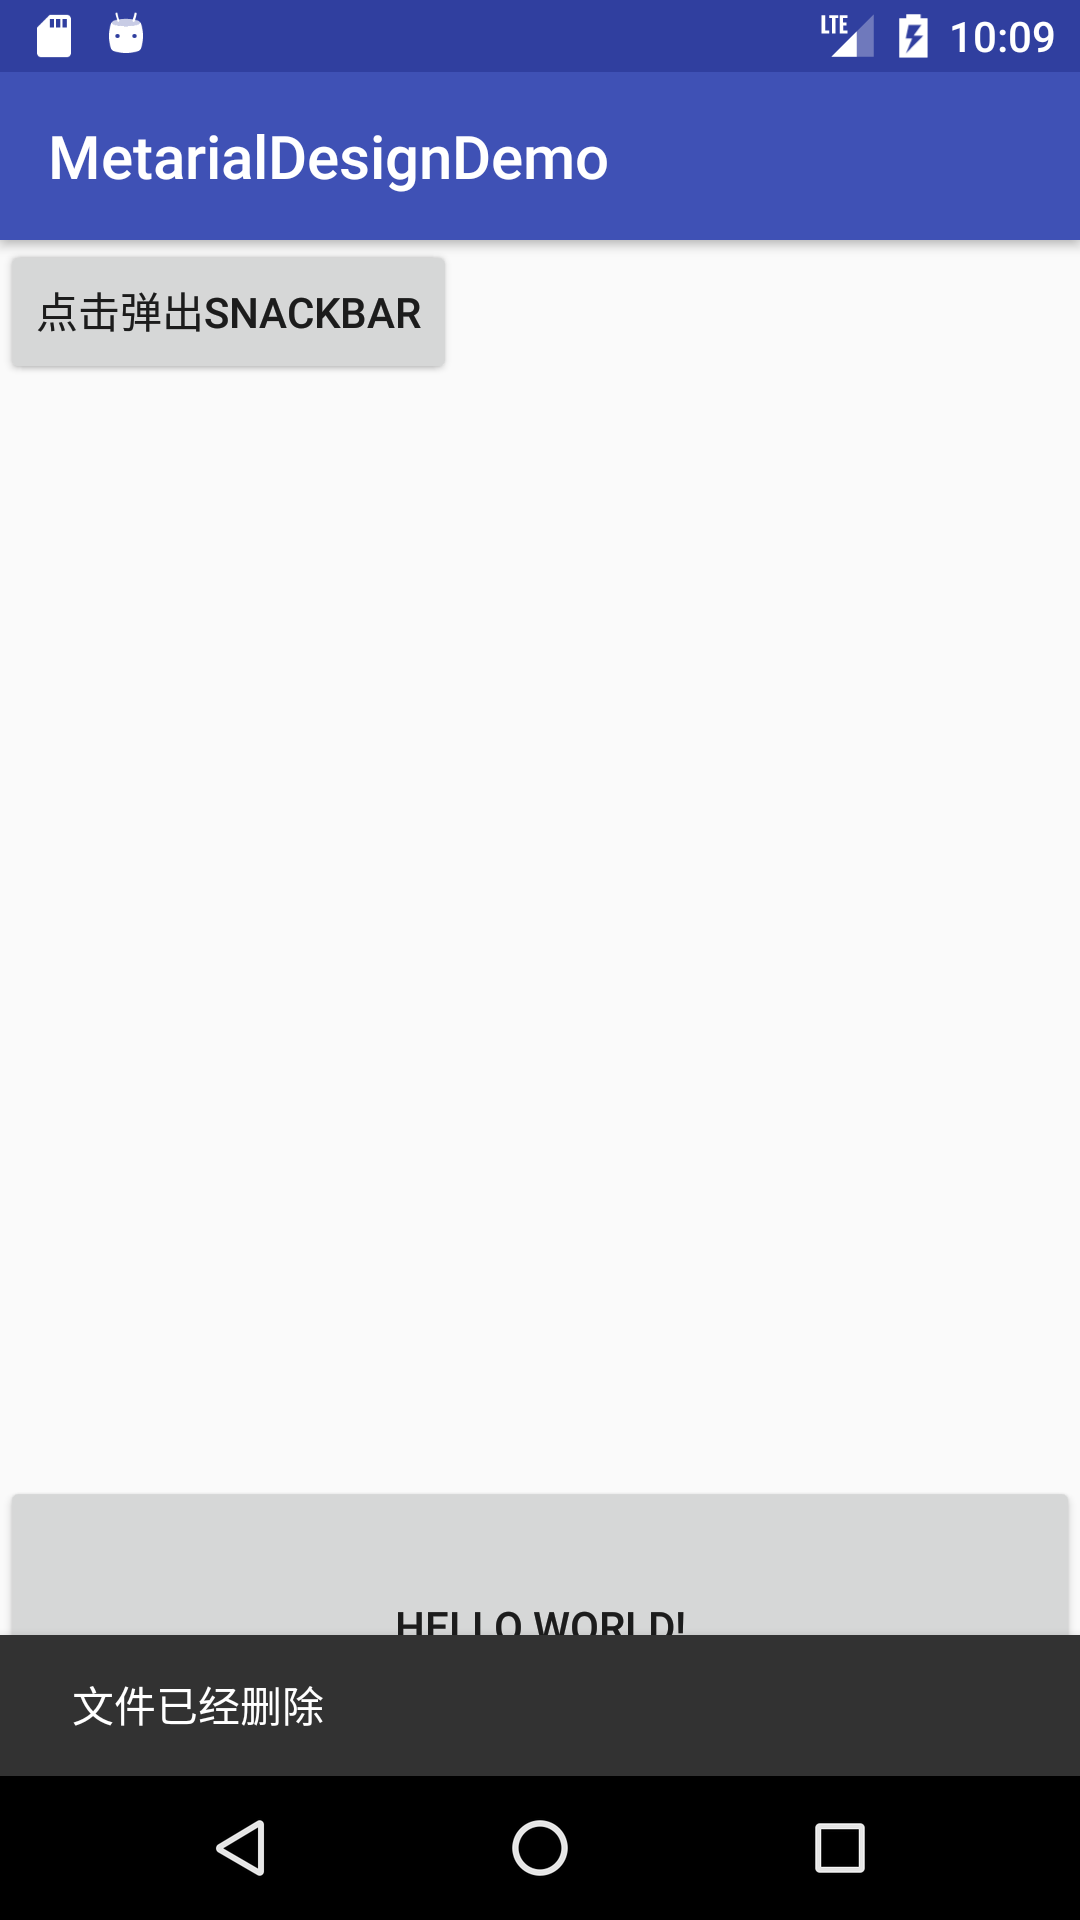
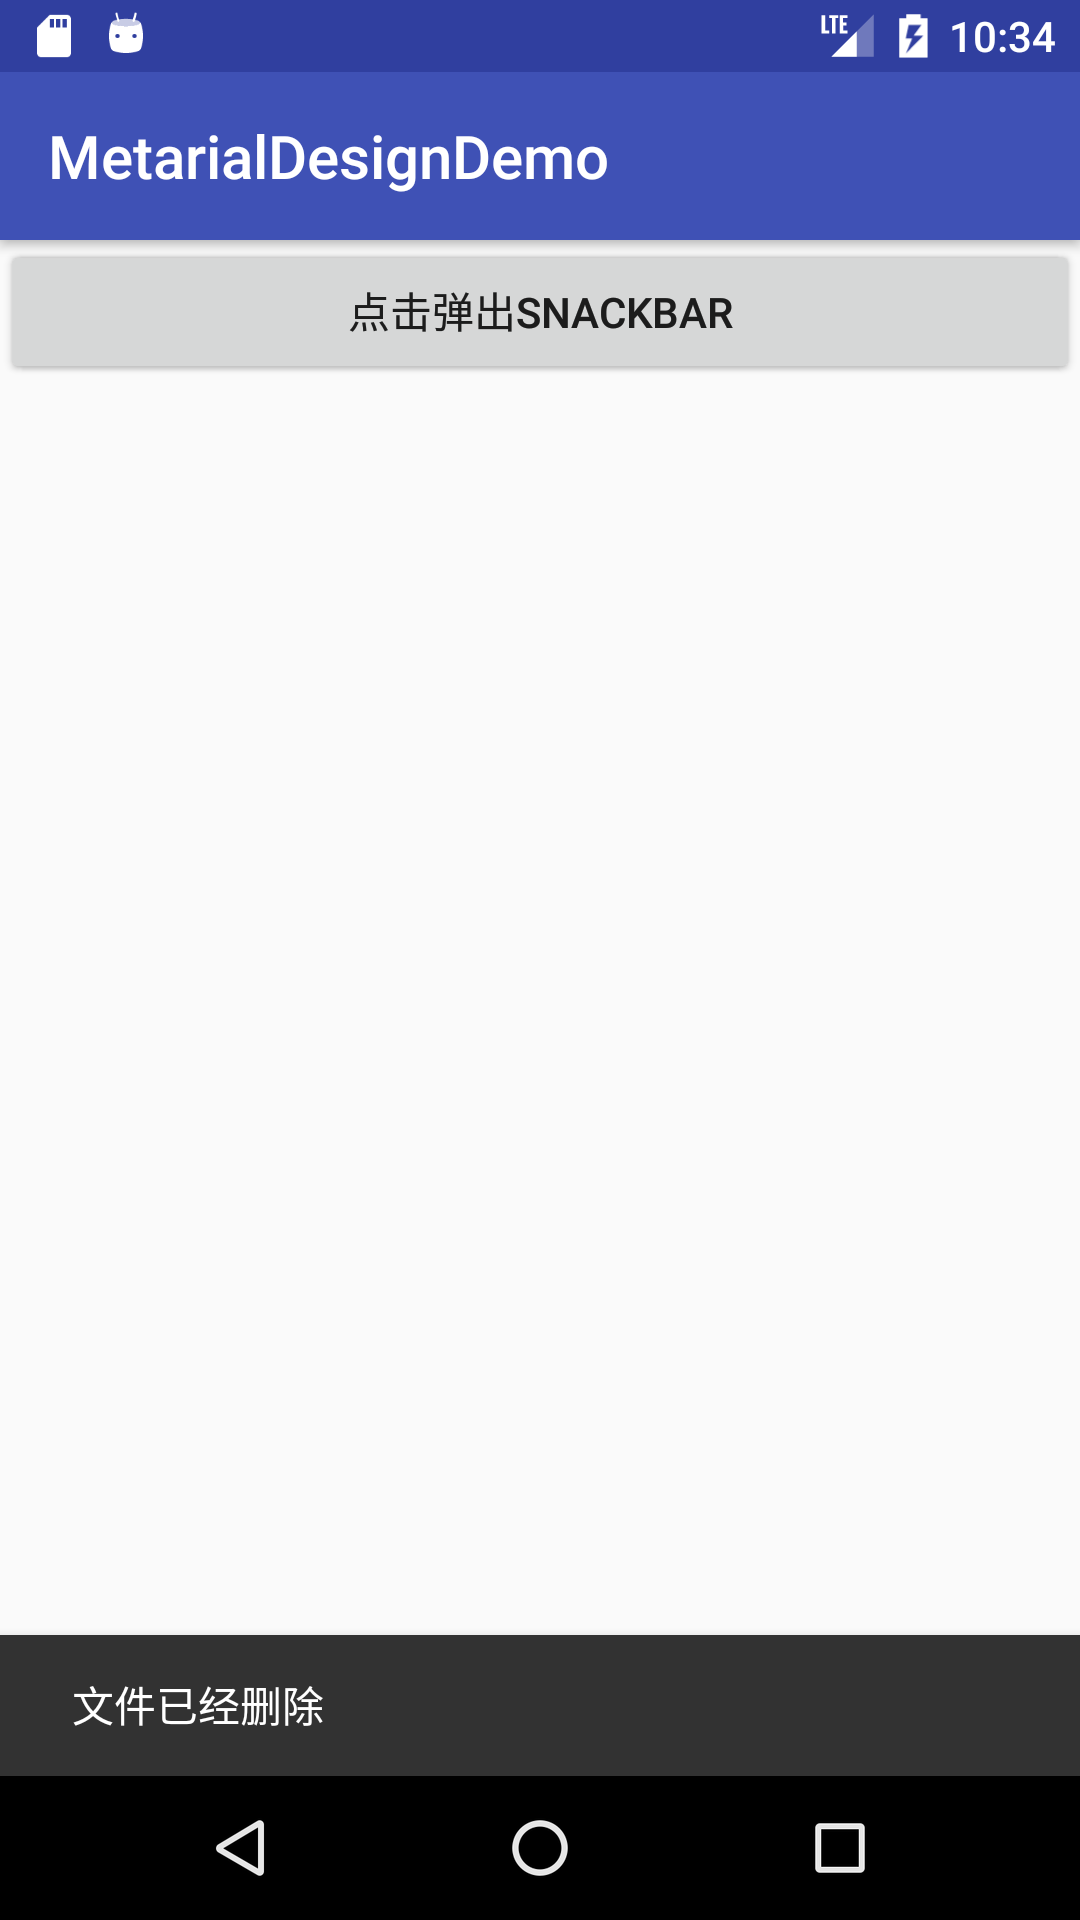
Site updated: 2017-04-03 22:46:17

Changed region(s): [[0.0, 0.7812, 1.0, 0.875], [0.0306, 0.125, 1.0, 0.2188], [0.9472, 0.0, 0.9778, 0.0312]]

diff --git a/2017/04/03/Material-Design之Snackbar/index.html b/2017/04/03/Material-Design之Snackbar/index.html
@@ -98,7 +98,8 @@
 下面我们来看一下Snackbar是如何使用的
 1、创建一个新的Android项目的时候，是不会主动添加design库的，这样就无法使用Snackbar。所以我们需要在gradle文件中添加一个android的design库的">
 <meta property="og:image" content="https://hurui1990.github.io/hurui.github.io/uploads/snackbar/snackbar1.png">
-<meta property="og:updated_time" content="2017-04-03T14:12:39.000Z">
+<meta property="og:image" content="https://hurui1990.github.io/hurui.github.io/uploads/snackbar/snackbar2.png">
+<meta property="og:updated_time" content="2017-04-03T14:44:34.000Z">
 <meta name="twitter:card" content="summary">
 <meta name="twitter:title" content="Material Design之Snackbar">
 <meta name="twitter:description" content="在Metarial Design设计语言发布之前，对于用户提示，我们都是用Toast实现的。Snackbar可以完全代替Toast的功能，并且在此基础之上还添加了动作的处理
@@ -358,8 +359,10 @@
 <figure class="highlight java"><table><tr><td class="gutter"><pre><div class="line">1</div></pre></td><td class="code"><pre><div class="line">compile <span class="string">'com.android.support:design:26.0.0-alpha1'</span></div></pre></td></tr></table></figure>
 <p>这里需要注意的是版本号的问题，因为现在新创建的项目的<strong><em>Activity</em></strong>都是继承的<strong><em>AppCompatActivity</em></strong> 所以这里的版本号需要与下面的版本号一致，<br><figure class="highlight java"><table><tr><td class="gutter"><pre><div class="line">1</div></pre></td><td class="code"><pre><div class="line">compile <span class="string">'com.android.support:appcompat-v7:26.0.0-alpha1'</span></div></pre></td></tr></table></figure></p>
 <p>否则在编译的时候会报错。</p>
-<p>接下来我们就可以在<strong><em>Activity</em></strong>中欢快的调用Snackbar了<br><figure class="highlight java"><table><tr><td class="gutter"><pre><div class="line">1</div><div class="line">2</div><div class="line">3</div><div class="line">4</div><div class="line">5</div><div class="line">6</div><div class="line">7</div><div class="line">8</div><div class="line">9</div></pre></td><td class="code"><pre><div class="line">mButton = (Button) findViewById(R.id.button);</div><div class="line">   mButtonClick = (Button) findViewById(R.id.button_click);</div><div class="line"></div><div class="line">   mButtonClick.setOnClickListener(<span class="keyword">new</span> View.OnClickListener() &#123;</div><div class="line">       <span class="meta">@Override</span></div><div class="line">       <span class="function"><span class="keyword">public</span> <span class="keyword">void</span> <span class="title">onClick</span><span class="params">(View view)</span> </span>&#123;</div><div class="line">           Snackbar.make(mButton,<span class="string">"文件已经删除"</span>,Snackbar.LENGTH_LONG).show();</div><div class="line">       &#125;</div><div class="line">   &#125;);</div></pre></td></tr></table></figure></p>
+<p>接下来我们就可以在<strong><em>Activity</em></strong>中欢快的调用Snackbar了,调用的时候需要用一个控件容器去容纳Snackbar，Google官方推荐的是CoordinatorLayout,因为使用这个控件作为容器的时候，用户还可以通过向右滑动来移除Snackbar。<br><figure class="highlight java"><table><tr><td class="gutter"><pre><div class="line">1</div><div class="line">2</div><div class="line">3</div><div class="line">4</div><div class="line">5</div><div class="line">6</div><div class="line">7</div><div class="line">8</div><div class="line">9</div></pre></td><td class="code"><pre><div class="line">mButtonClick = (Button) findViewById(R.id.button_click);</div><div class="line">mCoordinator = (CoordinatorLayout) findViewById(R.id.coordinator);</div><div class="line"></div><div class="line">mButtonClick.setOnClickListener(<span class="keyword">new</span> View.OnClickListener() &#123;</div><div class="line">    <span class="meta">@Override</span></div><div class="line">    <span class="function"><span class="keyword">public</span> <span class="keyword">void</span> <span class="title">onClick</span><span class="params">(View view)</span> </span>&#123;</div><div class="line">        Snackbar.make(mCoordinator,<span class="string">"文件已经删除"</span>,Snackbar.LENGTH_LONG).show();</div><div class="line">    &#125;</div><div class="line">&#125;);</div></pre></td></tr></table></figure></p>
 <p><img src="https://hurui1990.github.io/hurui.github.io/uploads/snackbar/snackbar1.png" alt="cmd-markdown-logo"></p>
+<p>这个是Snackbar最基本的用法，我们还可以对Snackbar添加一个Action，我们可以通过<figure class="highlight java"><figcaption><span>setAction ```这个方法来设置</span></figcaption><table><tr><td class="gutter"><pre><div class="line">1</div><div class="line">2</div><div class="line">3</div><div class="line">4</div><div class="line">5</div><div class="line">6</div><div class="line">7</div><div class="line">8</div><div class="line">9</div><div class="line">10</div><div class="line">11</div><div class="line">12</div><div class="line">13</div><div class="line">14</div><div class="line">15</div><div class="line">16</div><div class="line">17</div><div class="line">18</div><div class="line">19</div></pre></td><td class="code"><pre><div class="line"></div><div class="line">```java</div><div class="line">	mButtonClick = (Button) findViewById(R.id.button_click);</div><div class="line">    mCoordinator = (CoordinatorLayout) findViewById(R.id.coordinator);</div><div class="line"></div><div class="line">    mButtonClick.setOnClickListener(<span class="keyword">new</span> View.OnClickListener() &#123;</div><div class="line">        <span class="meta">@Override</span></div><div class="line">        <span class="function"><span class="keyword">public</span> <span class="keyword">void</span> <span class="title">onClick</span><span class="params">(View view)</span> </span>&#123;</div><div class="line">            Snackbar.make(mCoordinator,<span class="string">"文件已经删除"</span>,Snackbar.LENGTH_LONG)</div><div class="line">                    .setAction(<span class="string">"Retry"</span>, <span class="keyword">new</span> View.OnClickListener() &#123;</div><div class="line">                        <span class="meta">@Override</span></div><div class="line">                        <span class="function"><span class="keyword">public</span> <span class="keyword">void</span> <span class="title">onClick</span><span class="params">(View view)</span> </span>&#123;</div><div class="line">                            Toast.makeText(MainActivity.<span class="keyword">this</span>, <span class="string">"点击Retry，我就出现了！"</span>, Toast.LENGTH_LONG).show();</div><div class="line">                        &#125;</div><div class="line">                    &#125;)</div><div class="line">                    .setActionTextColor(Color.RED)</div><div class="line">                    .show();</div><div class="line">        &#125;</div><div class="line">    &#125;);</div></pre></td></tr></table></figure></p>
+<p><img src="https://hurui1990.github.io/hurui.github.io/uploads/snackbar/snackbar2.png" alt="cmd-markdown-logo"></p>
 
       
     </div>

diff --git a/css/main.css b/css/main.css
@@ -1698,7 +1698,7 @@ pre .javascript .function {
   width: 4px;
   height: 4px;
   border-radius: 50%;
-  background: #ff785e;
+  background: #754e45;
 }
 .links-of-blogroll {
   font-size: 13px;
